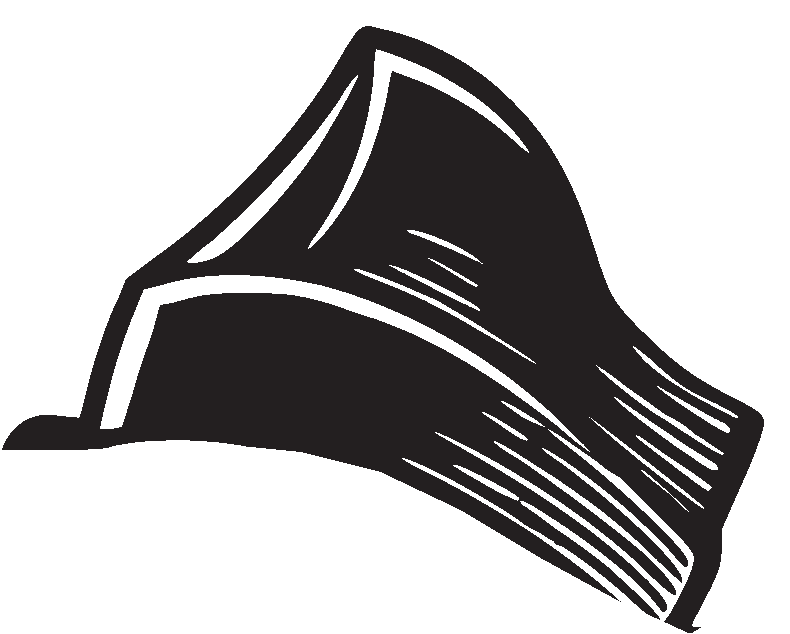
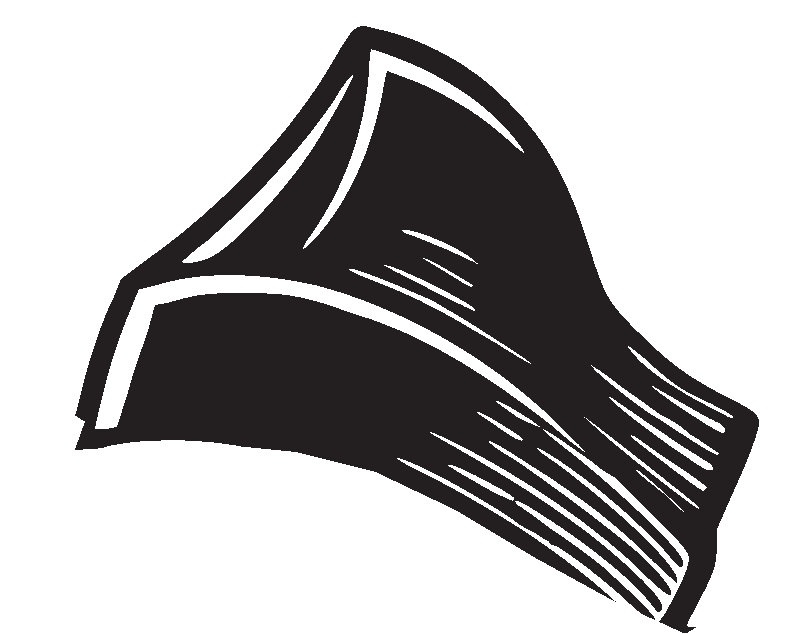
Barbar TV menu: redo the chef's hair and fix the hat cut
The striped dome looked like a helmet. His hair is now solid black and slicked back,
hugging the skull, with a few uneven shine lines like the ones on his hat. The hat
layer was also carrying the top of his temple tuft; it's cut along the hat outline now
so the tuft stays on his head when the hat comes off.

Claude-Session: https://claude.ai/code/session_01N8voRnMyNvU8CCxjjmqMUs

diff --git a/barbar-tv/index.html b/barbar-tv/index.html
@@ -195,7 +195,7 @@ const SCREENS = {
     ] },
 };
 /* rig parts: [x, y, w, h] in badge units, cut from their badge by the scratch cut script */
-const META = {"torso": [138.5, 262.5, 690.0, 516.5], "arm": [102.0, 453.0, 243.5, 326.0], "hand": [14.0, 321.0, 253.5, 149.5], "head": [298.0, 134.5, 471.0, 486.0], "mst": [345.0, 405.0, 225.5, 100.5], "hat": [380.0, 61.5, 395.0, 317.0]};
+const META = {"torso": [138.5, 339.0, 690.0, 440.0], "arm": [102.0, 453.0, 243.5, 326.0], "hand": [14.0, 321.0, 253.5, 149.5], "head": [298.0, 196.5, 471.0, 424.0], "mst": [345.0, 405.0, 225.5, 100.5], "hat": [382.5, 61.5, 392.5, 317.0]};
 
 const LOOP = 60, FPS = 30;
 const qs = new URLSearchParams(location.search), TV = +(qs.get('tv') || 1), S = SCREENS[TV] || SCREENS[1];
